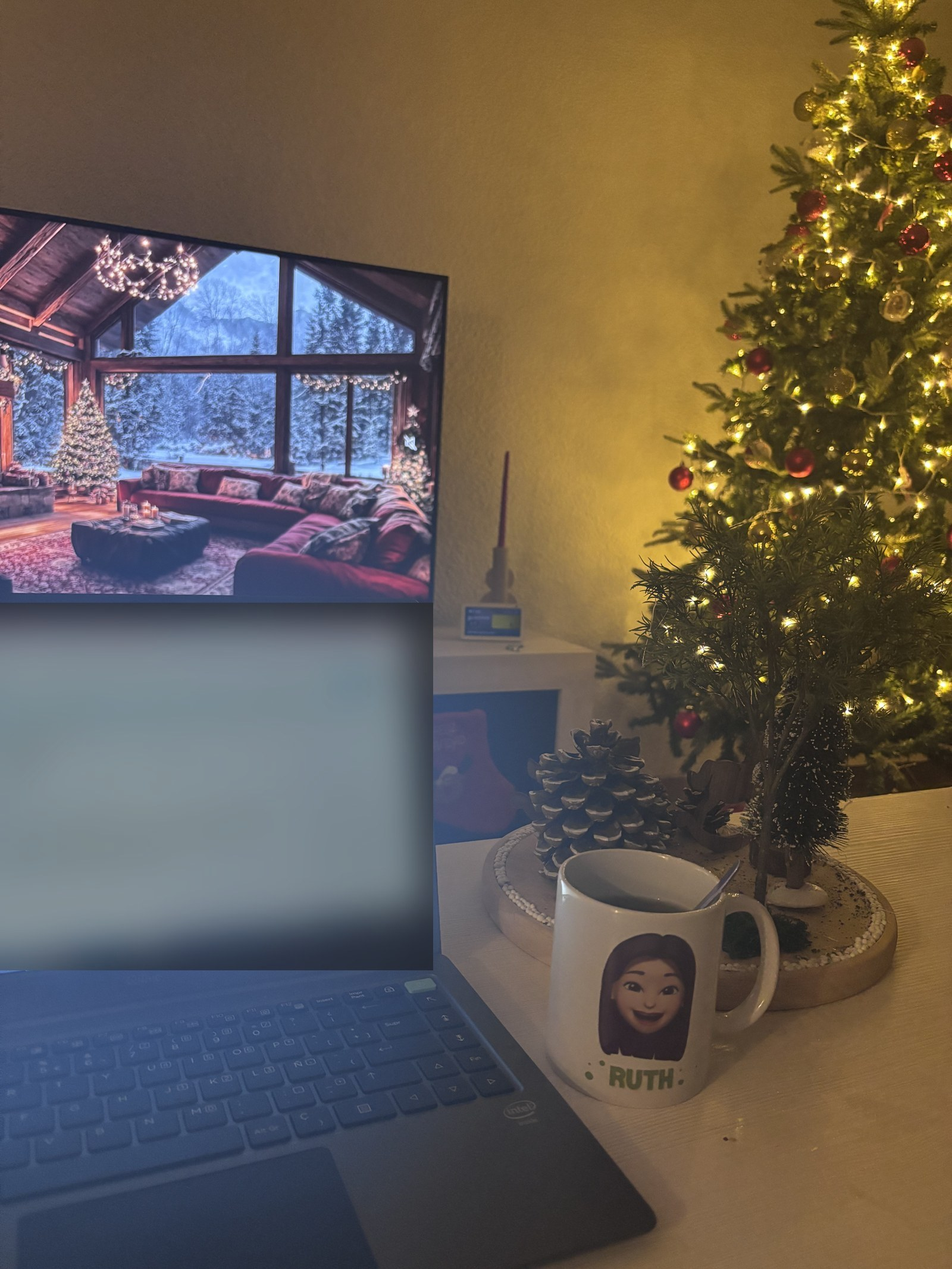
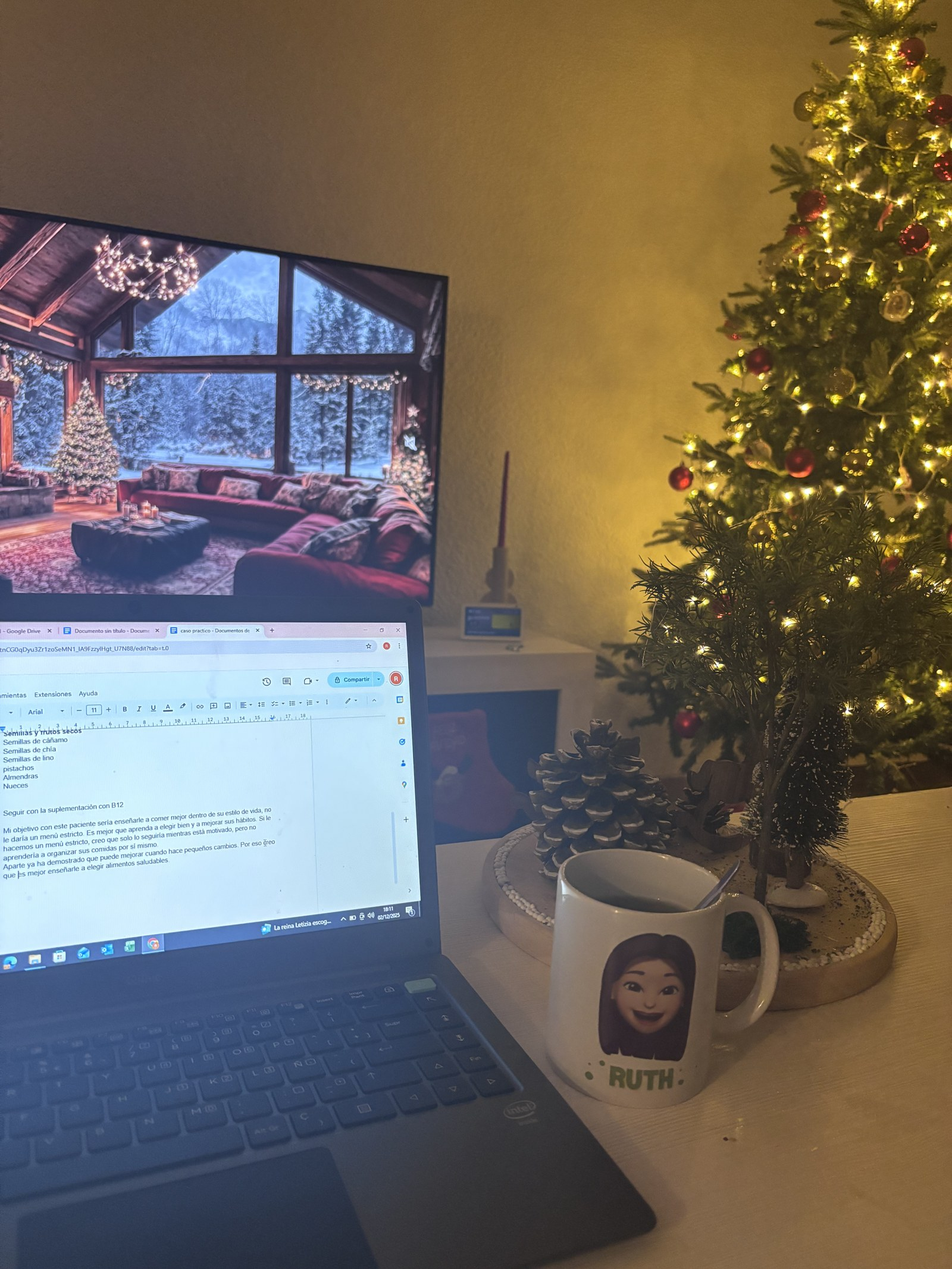
Carruseles: tarjeta sobre la pantalla en 3 claves y nuevos carruseles de Lidia, preguntas y plazas de enero
Claude-Session: https://claude.ai/code/session_01BJhanGQbqMstPra7Cbo7cp

Changed region(s): [[0.0, 0.4641, 0.4688, 0.7736]]

diff --git a/diciembre/generar-carruseles.js b/diciembre/generar-carruseles.js
@@ -69,7 +69,7 @@ const carruseles = [
   {
     carpeta: '2026-12-05-3-claves-navidad',
     slides: [
-      { tipo: 'portada', foto: 'IMG_9299.jpg', pos: 'center 35%', arriba: true, pill: 'Navidad sin hinchazón', pre: 'Disfruta sin miedo a comer', titulo: '3 claves para no acabar hinchada', sub: '' },
+      { tipo: 'portada', foto: 'IMG_9299.jpg', pos: 'center 35%', nota: true, pill: 'Navidad sin hinchazón', pre: 'Disfruta sin miedo a comer', titulo: '3 claves para no acabar *hinchada*', sub: 'Lo que hago con mis pacientes.' },
       { tipo: 'tarjetas', kicker: 'Esto es para ti', titulo: '¿Ya piensas en *cómo vas a acabar*?', icono: '→', tarjetas: [
         ['Hinchada después de la cena', 'Desabrochándote el botón a escondidas.'],
         ['Con gases y sin poder moverte', 'Mientras los demás siguen en la sobremesa.'],
@@ -99,6 +99,64 @@ const carruseles = [
       { tipo: 'cierre', titulo: '¿Quieres la guía completa para estas fiestas?', texto: 'Guárdalo para el día de la comida y pídeme la guía.', boton: ['Comenta la palabra', '«NAVIDAD»'] },
     ],
   },
+  {
+    carpeta: '2026-12-14-caso-lidia',
+    slides: [
+      { tipo: 'portada', foto: 'IMG_6186.jpg', pos: 'center 20%', abajo: true, pill: 'Caso real', pre: '«Pero si con esta lista no puedo comer de nada»', titulo: 'De una lista de prohibidos a volver a comer', sub: 'El caso de Lidia.' },
+      { tipo: 'tarjetas', kicker: 'El punto de partida', titulo: 'A Lidia le diagnostican *SIBO*', icono: '→', tarjetas: [
+        ['Le dan una dieta baja en FODMAP', 'Y una lista de alimentos que no sabe cómo llevar a su día a día.'],
+        ['Su lista «segura» es cada vez más corta', 'Y el miedo a comer, cada vez más grande.'],
+        ['Cada comida se convierte en un examen', 'En casa, en el trabajo y fuera.'],
+      ] },
+      { tipo: 'tarjetas', kicker: 'Cómo lo trabajamos', titulo: 'Juntas, *paso a paso*', icono: 'num', tarjetas: [
+        ['Entender qué pasaba de verdad', 'Su digestión, su tránsito y su día a día.'],
+        ['Adaptar la dieta a su vida real', 'No a una lista sacada de internet.'],
+        ['Reintroducir alimentos poco a poco', 'Porque la dieta baja en FODMAP es temporal, no para siempre.'],
+      ] },
+      { tipo: 'impacto', pill: 'Recuerda', grande: '✦', titulo: 'La dieta baja en FODMAP no es para siempre', texto: 'Es una herramienta temporal.', cursiva: 'Lo importante viene después.' },
+      { tipo: 'cierre', titulo: '¿Te reconoces en su historia?', texto: 'Miramos tu caso juntas en una llamada gratuita.', boton: ['Escríbeme la palabra', '«VALORACIÓN»'] },
+    ],
+  },
+  {
+    carpeta: '2026-12-19-preguntas-programa',
+    slides: [
+      { tipo: 'portada', foto: 'IMG_6777.jpg', pos: 'center 25%', abajo: true, pill: 'Libertad Digestiva', pre: 'Antes de empezar', titulo: 'Lo que me preguntáis antes de entrar', sub: 'Respondo a tus dudas.' },
+      { tipo: 'tarjetas', kicker: 'Tus dudas', titulo: '«¿Y si ya lo he *probado todo*?»', icono: '→', tarjetas: [
+        ['No empezamos por otra dieta', 'Empezamos por entender por qué lo anterior no te funcionó.'],
+        ['¿Tendré que dejar de comer fuera?', 'No. Aprendes a elegir en restaurantes y comidas familiares.'],
+        ['¿Sirve si no tengo diagnóstico de SIBO?', 'Sí. Trabajamos hinchazón, gases y digestiones pesadas.'],
+      ] },
+      { tipo: 'tarjetas', kicker: 'Tus dudas', titulo: '«¿Cuánto *tiempo* necesito?»', icono: '✓', tarjetas: [
+        ['Se adapta a tu horario', 'El plan se ajusta a tu trabajo y a tu vida, no al revés.'],
+        ['No estás sola entre sesiones', 'Acompañamiento diario por WhatsApp.'],
+        ['¿Y si vuelven los síntomas al terminar?', 'Te vas con un plan para saber qué hacer.'],
+      ] },
+      { tipo: 'cierre', titulo: '¿Tienes otra duda?', texto: 'Escríbeme y te respondo por privado.', boton: ['Escríbeme la palabra', '«ENERO»'] },
+    ],
+  },
+  {
+    carpeta: '2026-12-23-plazas-enero',
+    slides: [
+      { tipo: 'portada', foto: 'IMG_6782.jpg', pos: 'center 25%', abajo: true, partido: true, bajo: true, pill: 'Plazas abiertas', pre: 'Grupo de enero', titulo: 'Libertad Digestiva', sub: 'Para mujeres con hinchazón o SIBO.' },
+      { tipo: 'tarjetas', kicker: 'Para quién es', titulo: 'Este programa es *para ti si…*', icono: '→', tarjetas: [
+        ['Llevas tiempo con hinchazón, gases o digestiones pesadas', 'Y condicionan tu día a día.'],
+        ['Ya has probado dietas, suplementos o antibióticos', 'Y no ha funcionado.'],
+        ['Quieres volver a disfrutar de la comida', 'Sin seguir eliminando alimentos uno tras otro.'],
+      ] },
+      { tipo: 'tarjetas', kicker: 'Qué incluye', titulo: 'Dentro *encontrarás:*', icono: '✓', tarjetas: [
+        ['3 meses de acompañamiento 1 a 1', 'Sesiones conmigo para entender qué le pasa a tu digestión.'],
+        ['Menús y plantillas personalizados', 'Adaptados a tus gustos y a tu día a día.'],
+        ['Acompañamiento diario por WhatsApp', 'Para que nunca te sientas sola en el proceso.'],
+      ] },
+      { tipo: 'tarjetas', kicker: 'Bonus · solo hasta hoy', titulo: 'Si reservas *hoy*, te llevas:', icono: '🎁', tarjetas: [
+        ['Guía de bebidas antiinflamatorias', 'Recetas sencillas para cuidar tu digestión cada día.'],
+        ['Guía de alimentos FODMAP', 'Qué tomar, en qué cantidad y cambios fáciles.'],
+        ['Guía para comer fuera de casa', 'Restaurantes y celebraciones sin miedo.'],
+      ] },
+      { tipo: 'impacto', pill: 'Plazas limitadas', grande: '5', titulo: 'plazas para enero', texto: 'Cuando se llenen, se cierra.', cursiva: 'No hay lista de espera.' },
+      { tipo: 'cierre', titulo: '¿Quieres empezar en enero?', texto: 'Te cuento todo por privado.', boton: ['Escríbeme la palabra', '«ENERO»'] },
+    ],
+  },
 ];
 
 const CSS = `
@@ -124,6 +182,11 @@ em { font-family: 'Source Serif 4', serif; font-style: italic; font-weight: 400;
 .portada .handle, .portada .flecha { color: #f4ece2; }
 .portada .velo.arriba { background: linear-gradient(180deg, rgba(42,30,24,.82) 0%, rgba(42,30,24,.6) 40%, rgba(42,30,24,.08) 70%, rgba(42,30,24,.35) 100%); }
 .portada img.claro { filter: brightness(1.25); }
+.portada .velo.nota { background: linear-gradient(180deg, rgba(42,30,24,.75) 0%, rgba(42,30,24,.35) 30%, rgba(42,30,24,.05) 55%, rgba(42,30,24,.35) 100%); }
+.tnota { position: absolute; left: 0; top: 590px; width: 680px; background: rgba(246,239,230,.98); border-radius: 0 34px 34px 0; padding: 50px 52px 54px 90px; box-shadow: 0 20px 50px rgba(0,0,0,.35); }
+.tnota h1 { font-family: 'Source Serif 4', serif; font-weight: 700; font-size: 84px; line-height: 1.05; color: #5b4033; }
+.tnota .raya { width: 80px; height: 3px; background: #d48b80; margin: 34px 0 22px; }
+.tnota .sub { font-family: Inter, sans-serif; font-weight: 300; font-size: 36px; color: #6e5649; }
 .portada .txt.abajo { top: auto; bottom: 140px; }
 .portada .txt.alto { bottom: 230px; }
 .portada .txt.alto h1 { margin-top: 0; }
@@ -164,10 +227,16 @@ em { font-family: 'Source Serif 4', serif; font-style: italic; font-weight: 400;
 `;
 
 function slideHTML(s) {
+  if (s.tipo === 'portada' && s.nota) {
+    return `<div class="s portada"><img src="${foto(s.foto)}" style="object-position:${s.pos}"><div class="velo nota"></div>
+      <div class="txt"><span class="pill">${s.pill}</span><div class="pre">${s.pre}</div></div>
+      <div class="tnota"><h1>${fmt(s.titulo)}</h1><div class="raya"></div><div class="sub">${s.sub}</div></div>
+      <div class="handle">@ruthjimenez.nutrivia</div><div class="flecha">→</div></div>`;
+  }
   if (s.tipo === 'portada') {
     return `<div class="s portada"><img class="${s.arriba ? 'claro' : ''}" src="${foto(s.foto)}" style="object-position:${s.pos}"><div class="velo${s.partido ? ' partido' : (s.abajo ? ' abajo' : '')}${s.arriba ? ' arriba' : ''}"></div>
       ${s.partido ? `<div class="txt"><span class="pill">${s.pill}</span><div class="pre">${s.pre}</div></div>` : ''}
-      <div class="txt${s.abajo ? ' abajo' : ''}${s.partido && !s.bajo ? ' alto' : ''}">${s.partido ? '' : `<span class="pill">${s.pill}</span><div class="pre">${s.pre}</div>`}<h1>${s.titulo}</h1>${s.sub ? `<div class="raya"></div><div class="sub">${s.sub}</div>` : ''}</div>
+      <div class="txt${s.abajo ? ' abajo' : ''}${s.partido && !s.bajo ? ' alto' : ''}">${s.partido ? '' : `<span class="pill">${s.pill}</span><div class="pre">${s.pre}</div>`}<h1>${fmt(s.titulo)}</h1>${s.sub ? `<div class="raya"></div><div class="sub">${s.sub}</div>` : ''}</div>
       <div class="handle">@ruthjimenez.nutrivia</div><div class="flecha">→</div></div>`;
   }
   if (s.tipo === 'tarjetas') {
